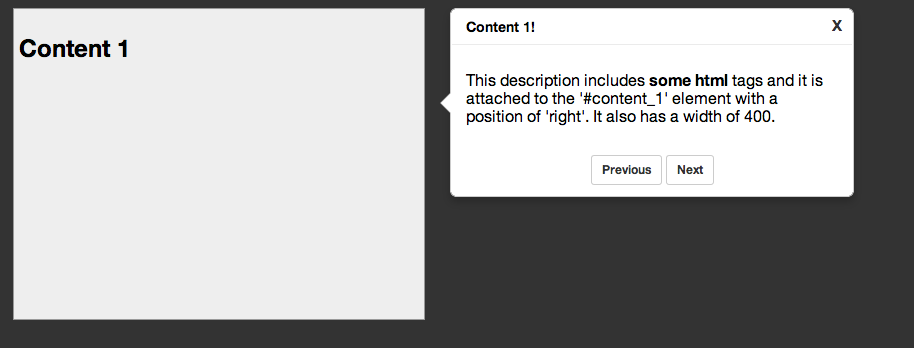
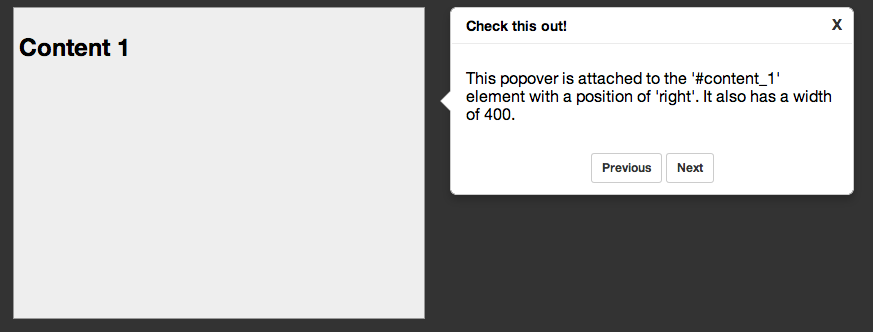
Updated screenshot

Changed region(s): [[0.0, 0.0, 0.9897, 0.9639], [0.0, 0.0904, 0.1546, 0.1807]]

diff --git a/demo.html b/demo.html
@@ -103,9 +103,9 @@
             attachTo: '#content_1',
             position: 'right',
             overlay: true,
-            title: 'Content 1!',
+            title: 'Check this out!',
             width: 400,
-            description: "This description includes <strong>some html</strong> tags and it is attached to the '#content_1' element with a position of 'right'. It also has a width of 400."
+            description: "This popover is attached to the '#content_1' element with a position of 'right'. It also has a width of 400."
           },
           {
             attachTo: '#content_2',
